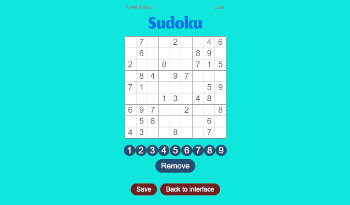
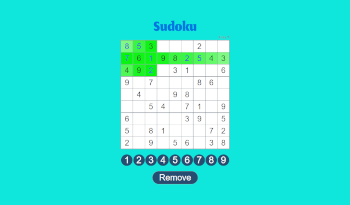
add new project assets

Changed region(s): [[0.3429, 0.0585, 0.6571, 0.9659], [0.3429, 0.0293, 0.4571, 0.0585], [0.6, 0.0293, 0.6571, 0.0585]]

diff --git a/src/components/Projects/ProjectsAssets.ts b/src/components/Projects/ProjectsAssets.ts
@@ -10,7 +10,7 @@ export type ProjectType = {
 export const PROJECTS_ASSETS: ProjectType[] = [
 	{
 		title:
-			'Sklep muzyczny, umożliwiający dodawanie i usuwanie produktów z poziomu admina',
+			'Sklep muzyczny, umożliwiający dodawanie i usuwanie produktów z poziomu admina (REST API)',
 		subtitle:
 			'React.js | TypeScript | Sass/SCSS | Redux-Toolkit | MongoDB Atlas/Mongoose | Axios',
 		description:
@@ -24,10 +24,19 @@ export const PROJECTS_ASSETS: ProjectType[] = [
 		subtitle:
 			'React.js | TypeScript | Sass/SCSS | Redux | Firebase | MongoDB Atlas/Mongoose | Axios',
 		description:
-			'CMS to jedna z trzech części projektu w stacku MERN, na który składają się jeszcze frontend i backend salonu fryzjerskiego (dostępne na moim GitHubie). Projekt stworzyłem w celu ćwiczenia tworzenia architektury REST API przy użyciu React.js i TypeScript. Strona jest zaprojektowana przeze mnie, responsywna i wystylizowana w SCSS z użyciem metodologii BEM. Zawiera panel logowania oraz zestaw formularzy do edytowania treści i dodawania/usuwania fotografii na stronie salonu fryzjerskiego. Do obsługi stanu aplikacji wykorzystałem Redux. Fotografie przechowywane są w Firebase Storage, natomiast pozostałe treści w bazie MongoDB Atlas. Backend umieściłem na Heroku.com, korzystając z darmowego hostingu, dlatego pierwsze logowanie może twać dłużej (do 10 sekund). Wynika to ze specyfiki darmowego hostingu, nie jest wadą aplikacji.',
+			'CMS to jedna z trzech części projektu w stacku MERN, na który składają się jeszcze frontend i backend salonu fryzjerskiego (dostępne na moim GitHubie). Projekt stworzyłem w celu ćwiczenia tworzenia architektury REST API przy użyciu React.js i TypeScript. Strona jest zaprojektowana przeze mnie, responsywna i wystylizowana w SCSS z użyciem metodologii BEM. Zawiera panel logowania oraz zestaw formularzy do edytowania treści i dodawania/usuwania fotografii na stronie salonu fryzjerskiego. Do obsługi stanu aplikacji wykorzystałem Redux. Fotografie przechowywane są w Firebase Storage, natomiast pozostałe treści w bazie MongoDB Atlas.',
 		imgUrl: 'hairsalon',
 		pageUrl: 'https://grzegorzwirtek.github.io/fryzjer-cms/',
 		githubUrl: 'https://github.com/GrzegorzWirtek/fryzjer-cms',
+	},
+	{
+		title: 'Gra Snake',
+		subtitle: 'HTML | Sass/SCSS | JavaScript (OOP)',
+		description:
+			'Grę typu Snake napisałem przy użyciu prostych narzędzi - JavaScript z użyciem klas, HTML i Css. Celem było zmierzenie się z tworzeniem logiki gry, która zachowywać będzie odpowiednią wydajność oraz ćwiczenie tworzenia architektury kodu JavaScript w podejściu obiektowym.',
+		imgUrl: 'snake',
+		pageUrl: 'https://grzegorzwirtek.github.io/snake-game/',
+		githubUrl: 'https://github.com/GrzegorzWirtek/snake-game',
 	},
 	{
 		title: 'Wyszukiwarka seriali',
@@ -39,20 +48,19 @@ export const PROJECTS_ASSETS: ProjectType[] = [
 		githubUrl: 'https://github.com/GrzegorzWirtek/tv-series',
 	},
 	{
-		title: 'Sudoku z panelem logowania (REST API)',
-		subtitle:
-			'HTML | Sass/SCSS | JavaScript (OOP) | Node.js | Express | MongoDB Atlas/Mongoose',
+		title: 'Sudoku',
+		subtitle: 'HTML | Sass/SCSS | JavaScript (OOP)',
 		description:
-			'Aplikacja do układania 12 plansz sudoku o różnym poziomie trudności, utworzona w stacku MERN. Zawiera panel pozwalający na założenie konta, logowanie się i zapisywania postępów w grze. Aplikację napisałem na własny użytek, próbując sił w tworzeniu logiki do złożónej łamigłówki, ćwicząc przy okazji programowanie obiektowe w JavaScript, oraz komunikację z backendem i bazą danych. Projekt zawiera zarówno część frontendową jak i backendową. Backend odpowiedzialny jest za komunikację z bazą danych MongoDB Atlas, gdzie przechowywane są dane logowania, oraz postępy gracza. Frontend napisany za pomocą JavaScript, z autorskim algorytmem sprawdzającym poprawność wypełniania pól przez gracza. Strona została zaprojektowana przeze mnie i ostylowana przy pomocy Sass/SCSS. Pierwsze wczytanie strony może trwać kilka sekund i nie jest wadą aplikacji, ale wynika ze specyfiki darmowego hostingu na Heroku.com, gdzie strona została przeze mnie umieszczona.',
+			'Aplikacja do układania 12 plansz sudoku o różnym poziomie trudności. Projekt utworzyłem ćwicząc umiejętności budowania logiki gry i pisania w JavaScript zorientowanym obiektowo. Jest to stary projekt, utworzony na początkowym etapie nauki JS, umieszczam go jako ciekawostkę.',
 		imgUrl: 'sudoku',
-		pageUrl: 'https://sudoku-with-login.herokuapp.com/',
-		githubUrl: 'https://github.com/GrzegorzWirtek/sudoku-login',
+		pageUrl: 'https://grzegorzwirtek.github.io/sudoku/',
+		githubUrl: 'https://github.com/GrzegorzWirtek/sudoku',
 	},
 	{
 		title: 'Blog z panelem admina do dodawania postów (REST API)',
 		subtitle: 'React.js | CSS | Redux',
 		description:
-			'Frontendowa część strony typu Blog. Wraz z bakcendem (dostępnym na moim GitHubie) projekt stanowi część historii mojej nauki tworzenia architektury REST API w stacku MERN. Strona jest responsywna, zaprojektowana przeze mnie, oraz zawiera autorskie wpisy i fotografie dokumentujące jedno z moich hobby. Strona jest napisana w React.js, do obsługi stanu użyłem Reduxa, a style napisane zostały w czystym CSS. Projekt zawiera sekcję komentarzy, które można dodawać pod artykułami - są one wysyłane na backend (Node.js, Express) i zapisywane w bazie MongoDB Atlas. Aplikacja zawiera również panel admina, pozwalający na dodawanie i usuwanie wpisów i fotografii, przechowywanych również w MongoDB. Backend umieściłem na darmowym hostingu Heroku.com, przez co pierwsze wczytanie strony może trwać kilka sekund',
+			'Frontendowa część strony typu Blog. Wraz z bakcendem (dostępnym na moim GitHubie) projekt stanowi część historii mojej nauki tworzenia architektury REST API w stacku MERN. Strona jest responsywna, zaprojektowana przeze mnie, oraz zawiera autorskie wpisy i fotografie dokumentujące jedno z moich hobby. Strona jest napisana w React.js, do obsługi stanu użyłem Reduxa, a style napisane zostały w czystym CSS. Projekt zawiera sekcję komentarzy, które można dodawać pod artykułami - są one wysyłane na backend (Node.js, Express) i zapisywane w bazie MongoDB Atlas. Aplikacja zawiera również panel admina, pozwalający na dodawanie i usuwanie wpisów i fotografii, przechowywanych również w MongoDB.',
 		imgUrl: 'blog',
 		pageUrl: 'https://grzegorzwirtek.github.io/mern-blog-client/',
 		githubUrl: 'https://github.com/GrzegorzWirtek/mern-blog-client',
